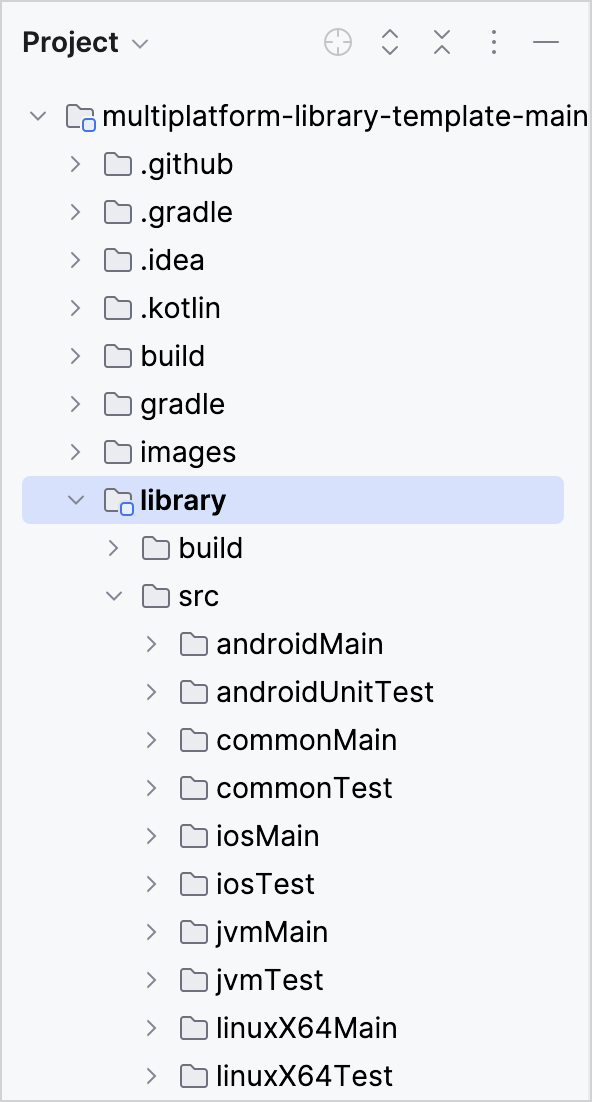
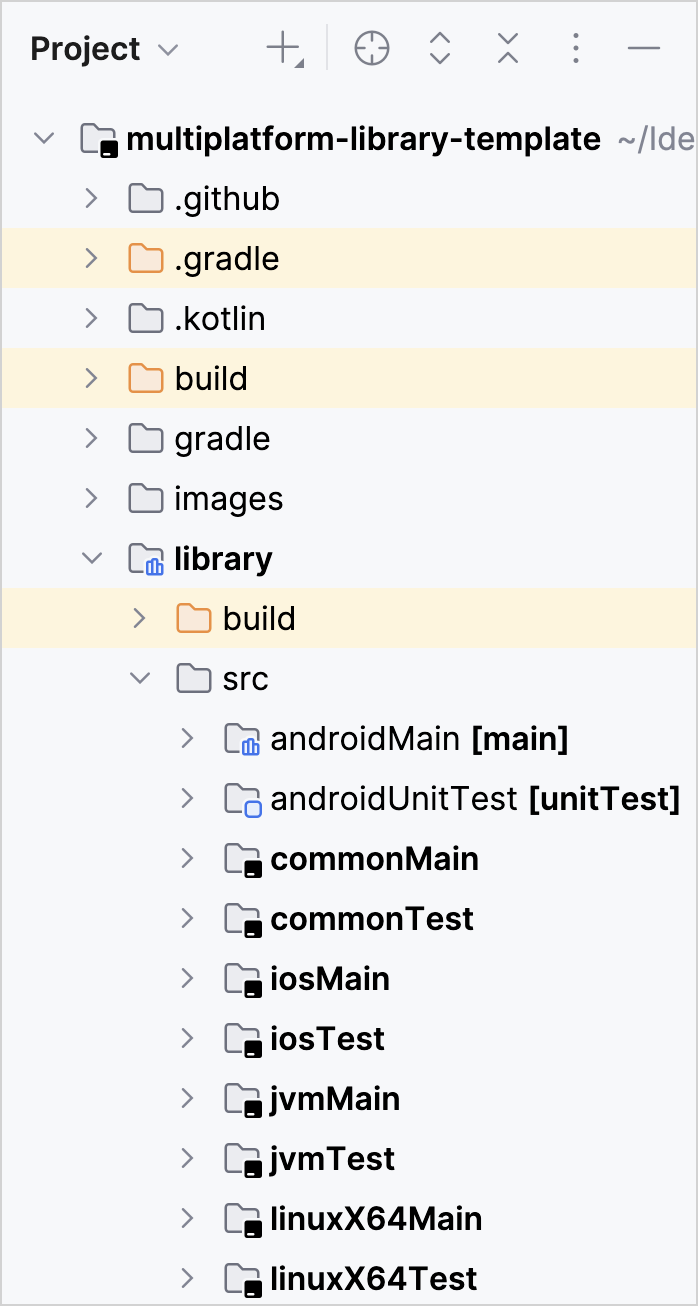
chore: update screenshots and change label

diff --git a/topics/Create-your-Kotlin-Multiplatform-library.md b/topics/Create-your-Kotlin-Multiplatform-library.md
@@ -1,5 +1,11 @@
 [//]: # (title: Create your Kotlin Multiplatform library – tutorial)
-<primary-label ref="intellij-and-android-studio"/>
+
+<secondary-label ref="IntelliJ IDEA"/>
+<secondary-label ref="Android Studio"/>
+
+<tldr>
+<p>This tutorial uses IntelliJ IDEA, but you can also follow it in Android Studio – both IDEs share the same core functionality and Kotlin Multiplatform support.</p>
+</tldr>
 
 In this tutorial, you'll learn how to create a Multiplatform library in IntelliJ IDEA, 
 publish the library to a local Maven repository, and add it as a dependency in another project.
@@ -30,7 +36,7 @@ various platforms.
 In the template project, `library` serves as the core module and contains the main source code and build resources for 
 the Multiplatform library.
 
-![Multiplatform library project structure](multiplatform-library-template-project-structure.png){width=450}
+![Multiplatform library project structure](multiplatform-library-template-project-structure.png){width=350}
 
 The `library` module is structured to accommodate shared code as well as platform-specific implementations. 
 Here's a breakdown of the contents in its main source code (`src`):
@@ -198,7 +204,7 @@ To publish your library, use the [`maven-publish`](https://docs.gradle.org/curre
 3. Synchronize the Gradle files by clicking the **Sync Gradle Changes** icon (![Gradle sync icon](gradle-sync-icon.png){width=30}{type="joined"}) that appears in your build file. Alternatively,
    click the refresh button on the Gradle tool window.
 
-4. In the Gradle tool Widow, run the `publishToMavenLocal` Gradle task from the `Tasks/publishing` directory.
+4. In the Gradle tool Widow, go to **multiplatform-library-template** | **Tasks** | **publishing** and run the **publishToMavenLocal** Gradle task.
 
    ![Multiplatform library Gradle tool window](publish-maven-local-gradle.png){width=450}
 
